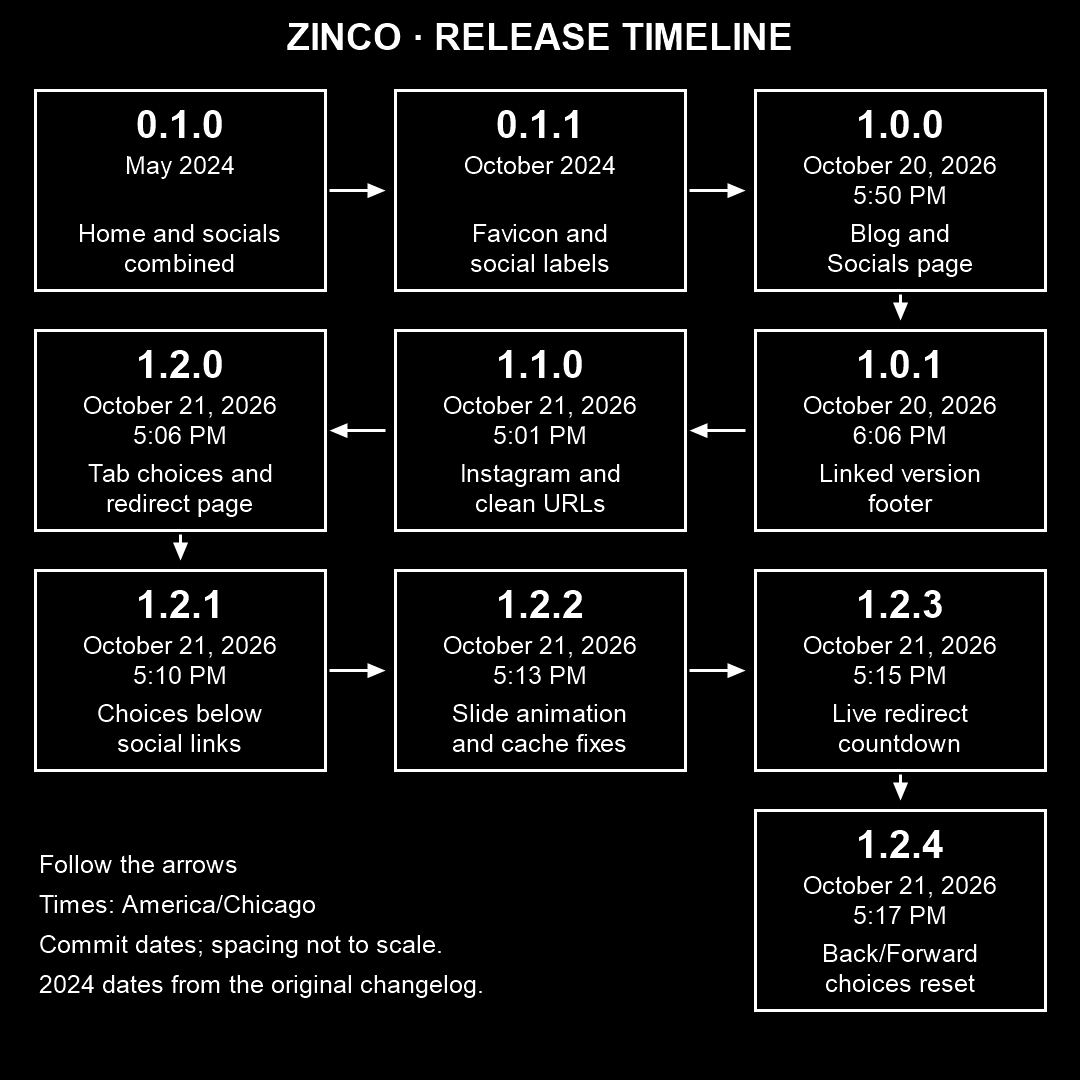
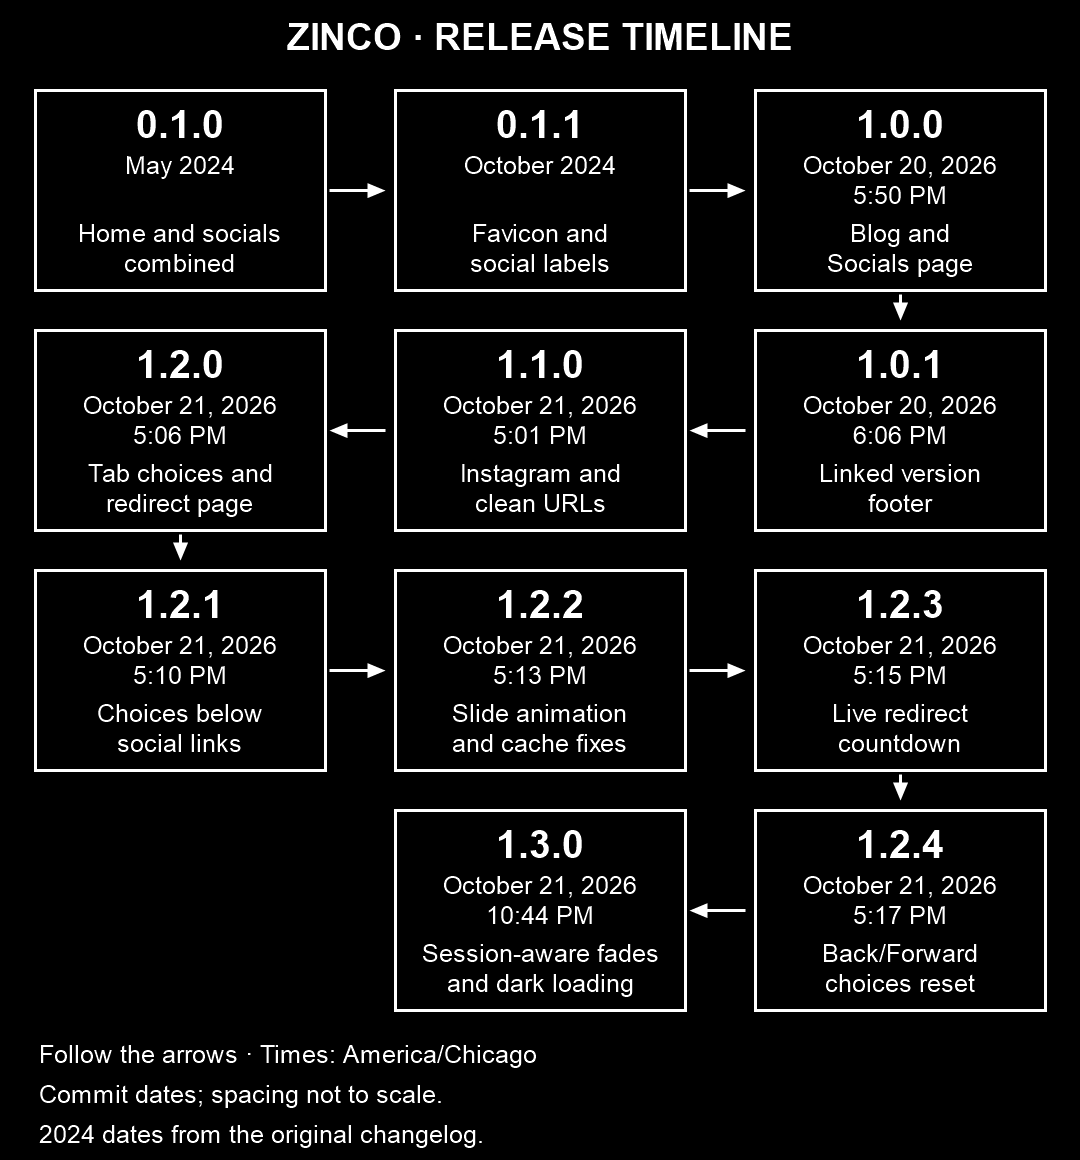
Release v1.3.0 with session-aware page fades and dark loading

diff --git a/socials.html b/socials.html
@@ -2,14 +2,57 @@
 <html lang="en">
 <head>
     <meta charset="UTF-8">
+    <meta name="color-scheme" content="dark">
+    <link rel="preload" as="image" href="images/star_blink.gif">
+    <style>
+        html { background: #000; color: #fff; color-scheme: dark; }
+        body { margin: 0; background: #000 url("images/star_blink.gif") center / cover; }
+    </style>
+    <script>
+        (() => {
+            const root = document.documentElement;
+            try {
+                const key = "zinco:page-entrance:socials";
+                if (!sessionStorage.getItem(key)) {
+                    sessionStorage.setItem(key, "seen");
+                    root.classList.add("page-entrance");
+                }
+            } catch (_) {
+                // Keep content visible if session storage is unavailable.
+            }
+            const socialKey = "zinco:social-row-entrance:ready-v3";
+            let shouldFadeSocials = true;
+            try { shouldFadeSocials = !sessionStorage.getItem(socialKey); } catch (_) {}
+            if (shouldFadeSocials && !window.matchMedia("(prefers-reduced-motion: reduce)").matches) {
+                root.classList.add("social-row-pending");
+                document.addEventListener("DOMContentLoaded", async () => {
+                    const images = [...document.querySelectorAll(".social-links img")];
+                    // Wait for the artwork, so the fade doesn't finish before it appears.
+                    await Promise.all(images.map((image) => image.decode().catch(() => {})));
+                    requestAnimationFrame(() => requestAnimationFrame(() => {
+                        root.classList.add("social-row-entrance");
+                        root.classList.remove("social-row-pending");
+                    }));
+                    document.querySelector(".social-links a:last-child").addEventListener("animationend", (event) => {
+                        if (event.animationName !== "page-fade-in") return;
+                        try { sessionStorage.setItem(socialKey, "seen"); } catch (_) {}
+                    });
+                }, { once: true });
+            }
+            window.addEventListener("pagehide", () => root.classList.remove("page-entrance", "social-row-entrance", "social-row-pending"));
+            window.addEventListener("pageshow", (event) => {
+                if (event.persisted) root.classList.remove("page-entrance", "social-row-entrance", "social-row-pending");
+            });
+        })();
+    </script>
     <meta name="viewport" content="width=device-width, initial-scale=1.0">
     <meta name="description" content="Find ZINCO on Discord, TikTok, GitHub, Bluesky, X, YouTube, Twitch, and Instagram.">
     <title>Socials | ZINCO</title>
     <link rel="icon" href="images/favicon.ico">
-    <link rel="stylesheet" href="style.css?v=1.2.4">
-    <script src="social-links.js?v=1.2.4" defer></script>
+    <link rel="stylesheet" href="style.css?v=1.3.0">
+    <script src="social-links.js?v=1.3.0" defer></script>
 </head>
-<body>
+<body class="socials-page">
     <main>
         <h1 class="site-title">SOCIALS</h1>
         <nav class="site-nav" aria-label="Main navigation">
@@ -56,7 +99,7 @@
     </div>
     </main>
     <footer class="site-footer">
-        <a class="site-version" href="https://github.com/zincodrone/zinco.gay-website">v1.2.4</a>
+        <a class="site-version" href="https://github.com/zincodrone/zinco.gay-website">v1.3.0</a>
         <p class="footer-heart">🖤</p>
     </footer>
 </body>

diff --git a/style.css b/style.css
@@ -1,10 +1,16 @@
 /* Page */
+html {
+    background-color: black;
+    color-scheme: dark;
+}
+
 body {
     display: flex;
     flex-direction: column;
     min-height: 100vh;
     min-height: 100svh;
     margin: 0;
+    background-color: black;
     background-image: url("images/star_blink.gif");
     background-position: center;
     background-size: cover;
@@ -15,6 +21,55 @@ body {
     font-family: Impact, Haettenschweiler, "Arial Narrow Bold", sans-serif;
     font-size: clamp(3rem, 12vw, 100px);
     text-align: center;
+}
+
+/* Page entrances exclude the footer and remain visible without animation. */
+@keyframes page-fade-in {
+    from { opacity: 0; }
+    to { opacity: 1; }
+}
+
+@media (prefers-reduced-motion: no-preference) {
+    html.social-row-pending .socials-page .social-links a {
+        opacity: 0;
+    }
+
+    html.page-entrance :is(.home-page, .blog-page, .socials-page) .site-title,
+    html.page-entrance :is(.home-page, .blog-page, .socials-page) .site-nav a,
+    html.social-row-entrance .socials-page .social-links a,
+    html.page-entrance .home-page .bio,
+    html.page-entrance .blog-page .blog-intro,
+    html.page-entrance .blog-page .post-card,
+    html.page-entrance .blog-page .post-body {
+        animation-name: page-fade-in;
+        animation-duration: 1s;
+        animation-timing-function: ease-out;
+        animation-fill-mode: backwards;
+    }
+
+    :is(.home-page, .blog-page, .socials-page) .site-nav a:nth-child(1) { animation-delay: 100ms; }
+    :is(.home-page, .blog-page, .socials-page) .site-nav a:nth-child(2) { animation-delay: 200ms; }
+    :is(.home-page, .blog-page, .socials-page) .site-nav a:nth-child(3) { animation-delay: 300ms; }
+    .home-page .bio,
+    .blog-page .blog-intro,
+    .blog-page .post-body { animation-delay: 400ms; }
+    .blog-page .post-card { animation-delay: 550ms; }
+
+    /* Both buttons in each two-column row share the same entrance timing. */
+    .socials-page .social-links a { animation-delay: 400ms; }
+    .socials-page .social-links a:nth-child(n+3) { animation-delay: 550ms; }
+    .socials-page .social-links a:nth-child(n+5) { animation-delay: 700ms; }
+    .socials-page .social-links a:nth-child(n+7) { animation-delay: 850ms; }
+
+    :is(.home-page, .blog-page, .socials-page) .site-nav a:focus,
+    .socials-page .social-links a:focus,
+    .home-page .bio:focus-within,
+    .blog-page .blog-intro:focus-within,
+    .blog-page .post-card:focus-within,
+    .blog-page .post-body:focus-within {
+        /* Keep focused content visible without cancelling/restarting its entrance. */
+        opacity: 1 !important;
+    }
 }
 
 /* Biography: change this variable to update only the bio font. */

diff --git a/blog/welcome.html b/blog/welcome.html
@@ -2,13 +2,37 @@
 <html lang="en">
 <head>
     <meta charset="UTF-8">
+    <meta name="color-scheme" content="dark">
+    <link rel="preload" as="image" href="../images/star_blink.gif">
+    <style>
+        html { background: #000; color: #fff; color-scheme: dark; }
+        body { margin: 0; background: #000 url("../images/star_blink.gif") center / cover; }
+    </style>
+    <script>
+        (() => {
+            const root = document.documentElement;
+            try {
+                const key = "zinco:page-entrance:blog-welcome";
+                if (!sessionStorage.getItem(key)) {
+                    sessionStorage.setItem(key, "seen");
+                    root.classList.add("page-entrance");
+                }
+            } catch (_) {
+                // Keep content visible if session storage is unavailable.
+            }
+            window.addEventListener("pagehide", () => root.classList.remove("page-entrance"));
+            window.addEventListener("pageshow", (event) => {
+                if (event.persisted) root.classList.remove("page-entrance");
+            });
+        })();
+    </script>
     <meta name="viewport" content="width=device-width, initial-scale=1.0">
     <meta name="description" content="Welcome to ZINCO's blog: a new home for thoughts and updates.">
     <title>Welcome! | ZINCO</title>
     <link rel="icon" href="../images/favicon.ico">
-    <link rel="stylesheet" href="../style.css?v=1.2.4">
+    <link rel="stylesheet" href="../style.css?v=1.3.0">
 </head>
-<body>
+<body class="blog-page">
     <main>
         <nav class="site-nav post-nav" aria-label="Main navigation">
             <a href="/">Home</a>
@@ -28,7 +52,7 @@
         </article>
     </main>
     <footer class="site-footer">
-        <a class="site-version" href="https://github.com/zincodrone/zinco.gay-website">v1.2.4</a>
+        <a class="site-version" href="https://github.com/zincodrone/zinco.gay-website">v1.3.0</a>
         <p class="footer-heart">🖤</p>
     </footer>
 </body>

diff --git a/blog/index.html b/blog/index.html
@@ -2,13 +2,37 @@
 <html lang="en">
 <head>
     <meta charset="UTF-8">
+    <meta name="color-scheme" content="dark">
+    <link rel="preload" as="image" href="../images/star_blink.gif">
+    <style>
+        html { background: #000; color: #fff; color-scheme: dark; }
+        body { margin: 0; background: #000 url("../images/star_blink.gif") center / cover; }
+    </style>
+    <script>
+        (() => {
+            const root = document.documentElement;
+            try {
+                const key = "zinco:page-entrance:blog";
+                if (!sessionStorage.getItem(key)) {
+                    sessionStorage.setItem(key, "seen");
+                    root.classList.add("page-entrance");
+                }
+            } catch (_) {
+                // Keep content visible if session storage is unavailable.
+            }
+            window.addEventListener("pagehide", () => root.classList.remove("page-entrance"));
+            window.addEventListener("pageshow", (event) => {
+                if (event.persisted) root.classList.remove("page-entrance");
+            });
+        })();
+    </script>
     <meta name="viewport" content="width=device-width, initial-scale=1.0">
     <meta name="description" content="Thoughts, updates, and writing from ZINCO.">
     <title>Blog | ZINCO</title>
     <link rel="icon" href="../images/favicon.ico">
-    <link rel="stylesheet" href="../style.css?v=1.2.4">
+    <link rel="stylesheet" href="../style.css?v=1.3.0">
 </head>
-<body>
+<body class="blog-page">
     <main>
         <h1 class="site-title">BLOG</h1>
         <nav class="site-nav" aria-label="Main navigation">
@@ -30,7 +54,7 @@
         </section>
     </main>
     <footer class="site-footer">
-        <a class="site-version" href="https://github.com/zincodrone/zinco.gay-website">v1.2.4</a>
+        <a class="site-version" href="https://github.com/zincodrone/zinco.gay-website">v1.3.0</a>
         <p class="footer-heart">🖤</p>
     </footer>
 </body>

diff --git a/index.html b/index.html
@@ -2,12 +2,36 @@
 <html lang="en">
 <head>
     <meta charset="UTF-8">
+    <meta name="color-scheme" content="dark">
+    <link rel="preload" as="image" href="images/star_blink.gif">
+    <style>
+        html { background: #000; color: #fff; color-scheme: dark; }
+        body { margin: 0; background: #000 url("images/star_blink.gif") center / cover; }
+    </style>
+    <script>
+        (() => {
+            const root = document.documentElement;
+            try {
+                const key = "zinco:page-entrance:home";
+                if (!sessionStorage.getItem(key)) {
+                    sessionStorage.setItem(key, "seen");
+                    root.classList.add("page-entrance");
+                }
+            } catch (_) {
+                // Keep content visible if session storage is unavailable.
+            }
+            window.addEventListener("pagehide", () => root.classList.remove("page-entrance"));
+            window.addEventListener("pageshow", (event) => {
+                if (event.persisted) root.classList.remove("page-entrance");
+            });
+        })();
+    </script>
     <meta name="viewport" content="width=device-width, initial-scale=1.0">
     <title>ZINCO</title>
     <link rel="icon" href="images/favicon.ico">
-    <link rel="stylesheet" href="style.css?v=1.2.4">
+    <link rel="stylesheet" href="style.css?v=1.3.0">
 </head>
-<body>
+<body class="home-page">
     <main>
         <h1 class="site-title">ZINCO</h1>
         <nav class="site-nav" aria-label="Main navigation">
@@ -31,7 +55,7 @@
     </main>
 
     <footer class="site-footer">
-        <a class="site-version" href="https://github.com/zincodrone/zinco.gay-website">v1.2.4</a>
+        <a class="site-version" href="https://github.com/zincodrone/zinco.gay-website">v1.3.0</a>
         <p class="footer-heart">🖤</p>
     </footer>
 </body>

diff --git a/redirect.html b/redirect.html
@@ -2,12 +2,18 @@
 <html lang="en">
 <head>
     <meta charset="UTF-8">
+    <meta name="color-scheme" content="dark">
+    <link rel="preload" as="image" href="images/star_blink.gif">
+    <style>
+        html { background: #000; color: #fff; color-scheme: dark; }
+        body { margin: 0; background: #000 url("images/star_blink.gif") center / cover; }
+    </style>
     <meta name="viewport" content="width=device-width, initial-scale=1.0">
     <meta name="robots" content="noindex">
     <title>Leaving ZINCO</title>
     <link rel="icon" href="images/favicon.ico">
-    <link rel="stylesheet" href="style.css?v=1.2.4">
-    <script src="social-links.js?v=1.2.4" defer></script>
+    <link rel="stylesheet" href="style.css?v=1.3.0">
+    <script src="social-links.js?v=1.3.0" defer></script>
 </head>
 <body>
     <main>
@@ -29,7 +35,7 @@
         </section>
     </main>
     <footer class="site-footer">
-        <a class="site-version" href="https://github.com/zincodrone/zinco.gay-website">v1.2.4</a>
+        <a class="site-version" href="https://github.com/zincodrone/zinco.gay-website">v1.3.0</a>
         <p class="footer-heart">🖤</p>
     </footer>
 </body>

diff --git a/README.md b/README.md
@@ -19,7 +19,16 @@ Versions use `major.minor.patch`: major for substantial redesigns or changes tha
 
 Follow the arrows from the earliest release to the latest, snaking across each row. Times are in America/Chicago and reflect when each version was committed, not when it was deployed to the live website. The 2024 entries retain the months recorded in the original changelog; exact release days were not recorded there. Spacing between releases is not to scale.
 
-![Snaking release timeline from version 0.1.0 through 1.2.4](images/changelog-timeline-snake.png)
+![Snaking release timeline from version 0.1.0 through 1.3.0](images/changelog-timeline-snake.png)
+
+## 1.3.0 — October 21, 2026
+
+- Added staggered entrance fades to Home, the blog listing, and individual blog posts.
+- Added paired row fades to social buttons, waiting for the button images to load before animating.
+- Limited entrance fades to the first visit to each page in the current tab session; clicking, refreshing, or returning does not replay completed fades.
+- Kept the footer version and heart visible without animation and respected reduced-motion preferences.
+- Added an immediate black background and preloaded the star GIF to reduce flashes during navigation and refreshes.
+- Fixed fade timing so both social buttons in each row appear together.
 
 ## 1.2.4 — October 2026
 
